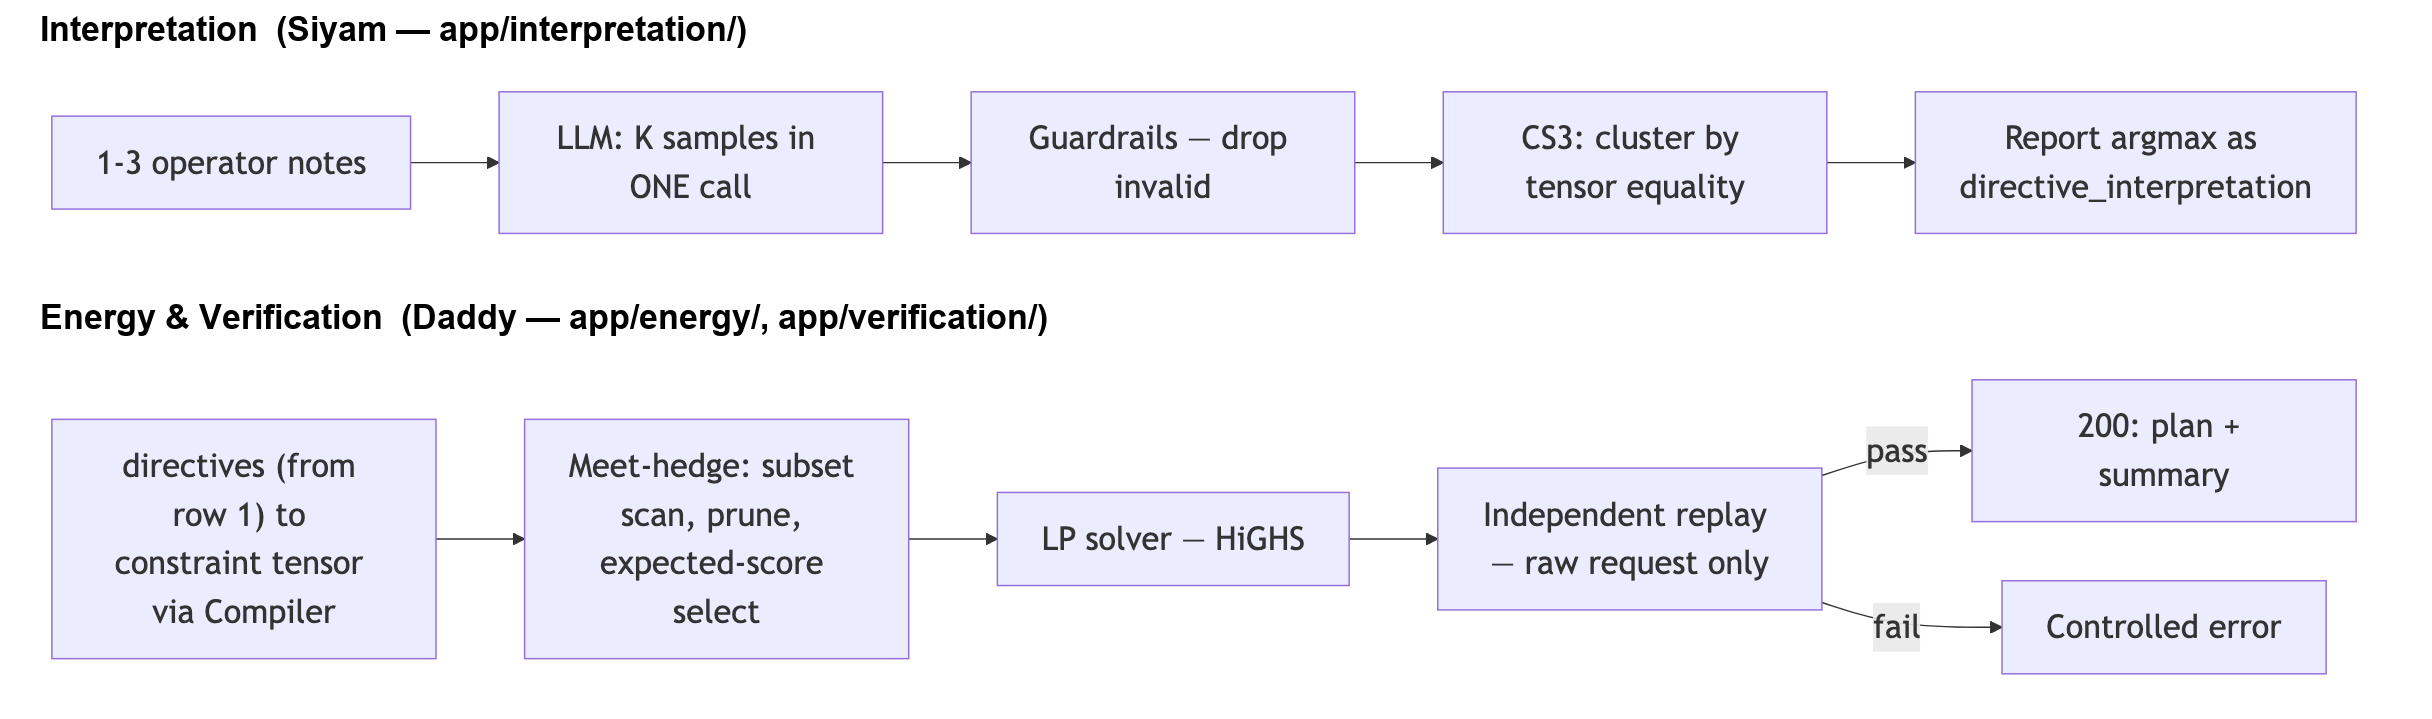
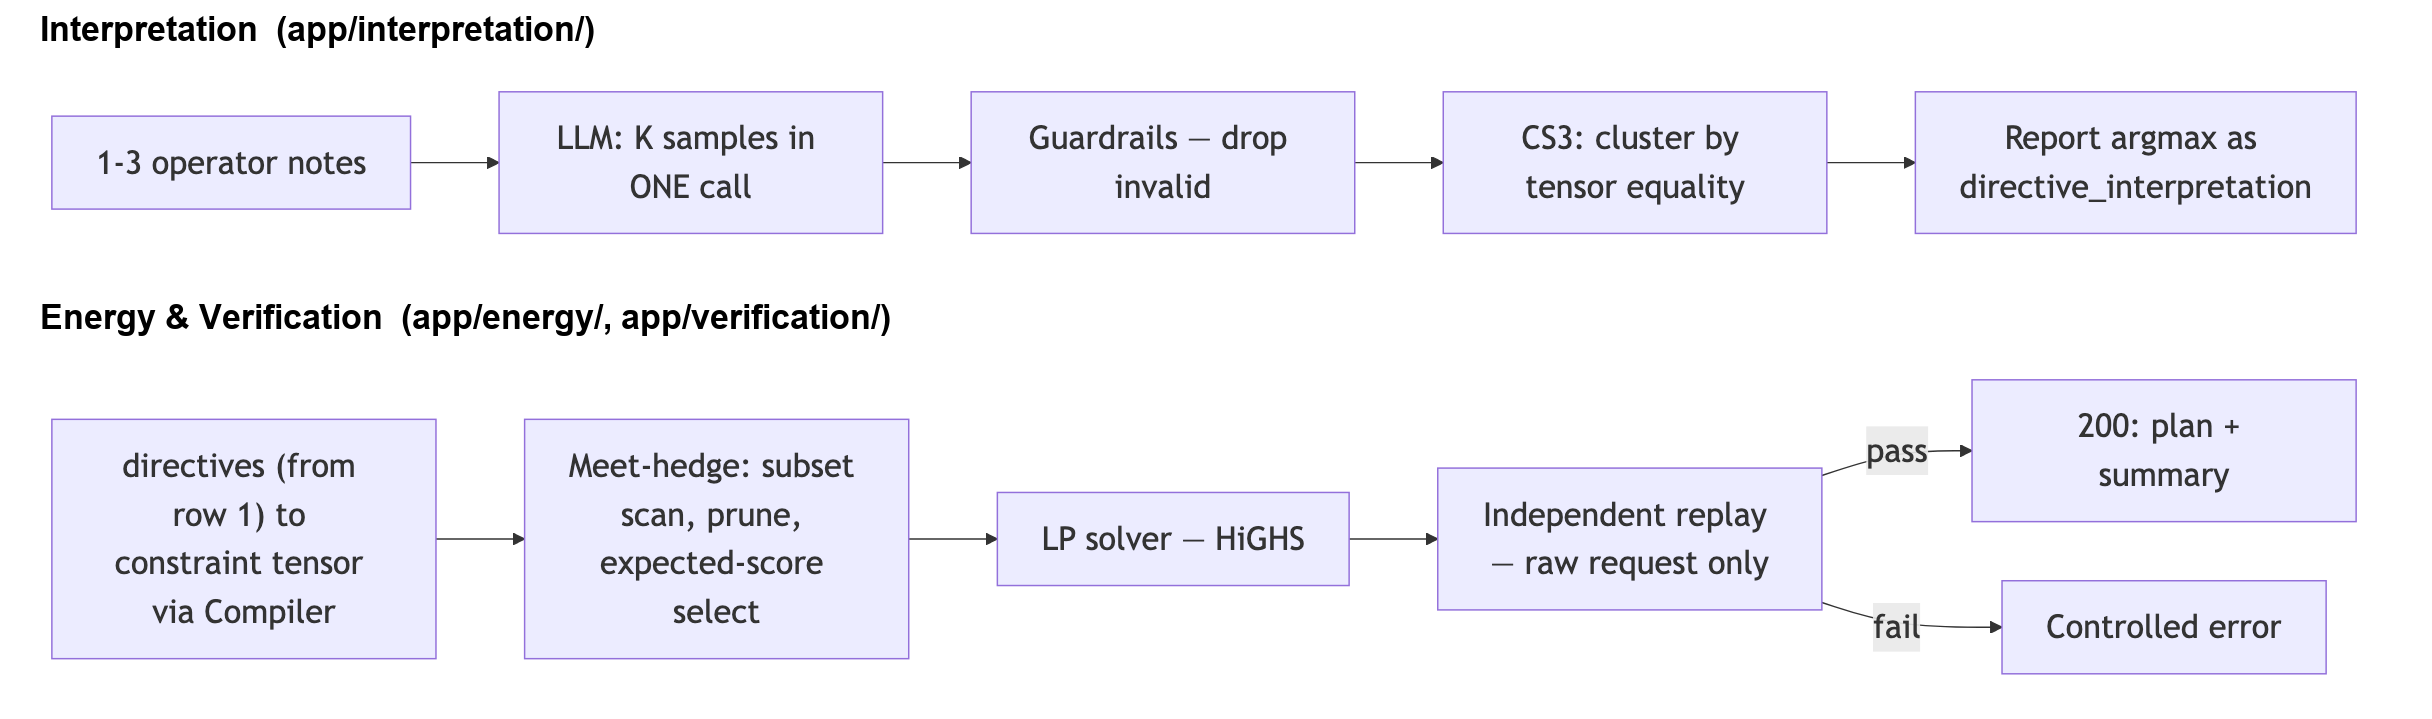
docs: drop team member names from the architecture diagram labels
Row labels now read "Interpretation (app/interpretation/)" and
"Energy & Verification (app/energy/, app/verification/)" -- module
paths only, no names. The video/README should describe the system,
not who wrote which file.

Changed region(s): [[0.1562, 0.4284, 0.4375, 0.4896], [0.0938, 0.0306, 0.3125, 0.0612]]

diff --git a/docs/render_architecture_diagram.py b/docs/render_architecture_diagram.py
@@ -22,10 +22,10 @@ from PIL import Image, ImageDraw, ImageFont
 DOCS = pathlib.Path(__file__).resolve().parent
 CONFIG = DOCS / "mermaid_config.json"
 ROWS = [
-    (DOCS / "architecture_row1.mmd", "Interpretation  (Siyam — app/interpretation/)"),
+    (DOCS / "architecture_row1.mmd", "Interpretation  (app/interpretation/)"),
     (
         DOCS / "architecture_row2.mmd",
-        "Energy & Verification  (Daddy — app/energy/, app/verification/)",
+        "Energy & Verification  (app/energy/, app/verification/)",
     ),
 ]
 OUT = DOCS / "architecture_flow.png"
